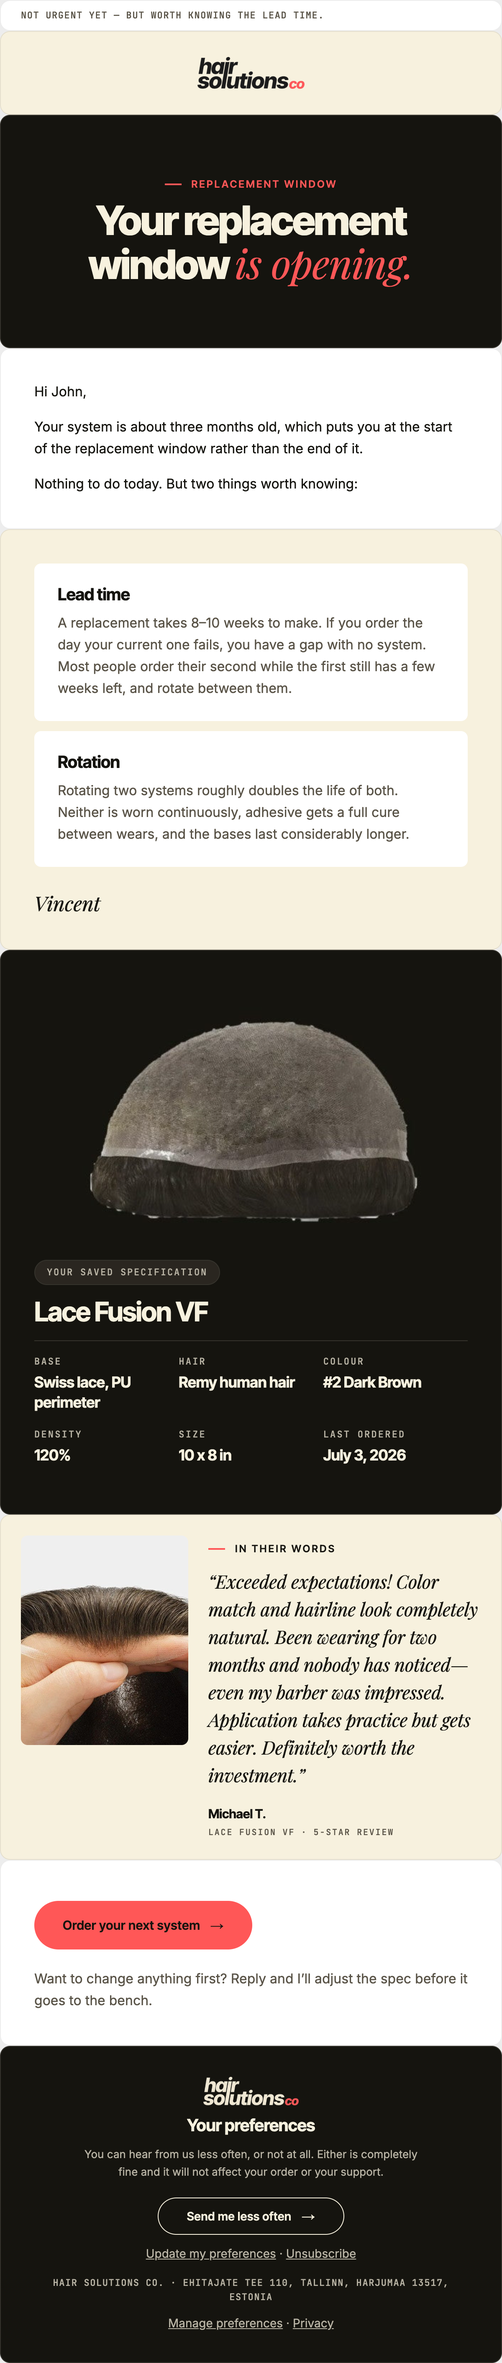
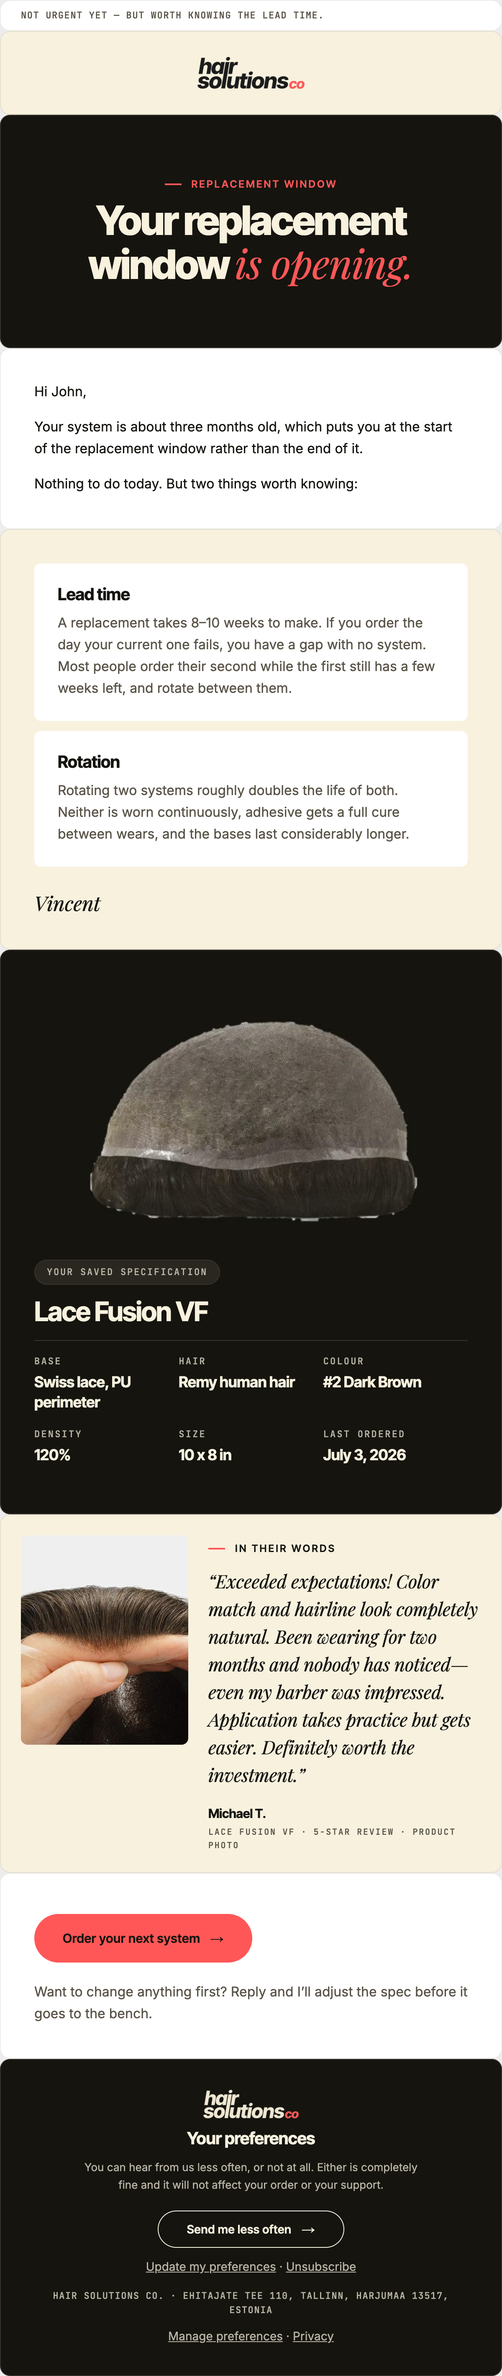
Add WB-1 (checking in); label review photos as product photos

diff --git a/templates/emails/wb-1-checking-in/template.html b/templates/emails/wb-1-checking-in/template.html
@@ -1,0 +1,83 @@
+<!DOCTYPE html>
+<html lang="en" xmlns="http://www.w3.org/1999/xhtml" xmlns:v="urn:schemas-microsoft-com:vml" xmlns:o="urn:schemas-microsoft-com:office:office">
+<head>
+<meta charset="utf-8">
+<meta name="viewport" content="width=device-width,initial-scale=1">
+<meta http-equiv="X-UA-Compatible" content="IE=edge">
+<meta name="x-apple-disable-message-reformatting">
+<meta name="color-scheme" content="light">
+<meta name="supported-color-schemes" content="light">
+<title>Checking in — Vincent here</title>
+<!--[if mso]><noscript><xml><o:OfficeDocumentSettings><o:PixelsPerInch>96</o:PixelsPerInch></o:OfficeDocumentSettings></xml></noscript><![endif]-->
+<link href="https://fonts.googleapis.com/css2?family=Inter:wght@400;600;700&amp;family=Inter+Tight:wght@600;700;800&amp;family=JetBrains+Mono:wght@500;700&amp;family=Playfair+Display:ital,wght@1,400;1,500&amp;display=swap" rel="stylesheet">
+<style>
+  body { margin:0 !important; padding:0 !important; background-color:transparent; -webkit-text-size-adjust:100%; -ms-text-size-adjust:100%; }
+  table, td { mso-table-lspace:0pt; mso-table-rspace:0pt; }
+  img { -ms-interpolation-mode:bicubic; }
+  a { text-decoration-skip-ink:auto; }
+  .unsub a { color:#b8b3a4 !important; text-decoration:underline !important; }
+  @media only screen and (max-width:480px) {
+    .shell { width:100% !important; }
+    .pad { padding:32px 22px !important; }
+    .pad-sm { padding-left:16px !important; padding-right:16px !important; }
+    .hero-h { font-size:36px !important; line-height:37px !important; letter-spacing:-1.2px !important; }
+    .btn { width:100% !important; } .btn a { display:block !important; text-align:center !important; }
+    .stack { display:block !important; width:100% !important; padding:0 !important; }
+    .stack-gap { padding-top:20px !important; }
+    .fluid { width:100% !important; height:auto !important; }
+    .pad-copy { padding:0 4px !important; }
+  }
+</style>
+</head>
+<body style="margin:0;padding:0;background-color:transparent;">
+<!--[if mso]><table role="presentation" width="600" align="center" cellpadding="0" cellspacing="0" border="0"><tr><td><![endif]-->
+<table role="presentation" width="100%" cellpadding="0" cellspacing="0" border="0" style="background-color:transparent;"><tr><td align="center" style="padding:0;">
+<table role="presentation" class="shell" width="100%" cellpadding="0" cellspacing="0" border="0" style="width:100%;max-width:600px;">
+<tr><td style="padding:0;">
+<table role="presentation" width="100%" cellpadding="0" cellspacing="0" border="0" style="border-collapse:separate;background-color:#ffffff;border:1px solid #ececec;border-radius:12px;">
+<tr><td class="pad-sm" style="padding:9px 24px;"><table role="presentation" width="100%" cellpadding="0" cellspacing="0" border="0"><tr><td style="font-family:'JetBrains Mono','Courier New',monospace;font-size:11px;line-height:17px;letter-spacing:0.8px;text-transform:uppercase;color:#5a5448;vertical-align:middle;">No offer attached. Just wondering how you got on.</td></tr></table></td></tr>
+</table>
+</td></tr>
+</table>
+</td></tr></table>
+<table role="presentation" width="100%" cellpadding="0" cellspacing="0" border="0" style="background-color:transparent;"><tr><td align="center" style="padding:0;">
+<table role="presentation" class="shell" width="100%" cellpadding="0" cellspacing="0" border="0" style="width:100%;max-width:600px;">
+<tr><td style="padding:0;">
+<table role="presentation" width="100%" cellpadding="0" cellspacing="0" border="0" style="border-collapse:separate;background-color:#f7f1de;border:1px solid #e5dfcd;border-radius:12px;">
+<tr><td class="pad" style="padding:30px 40px;"><img src="https://cdn.shopify.com/s/files/1/0276/9115/5508/files/hsc-email-logo-ink.png" width="128" height="38" alt="Hair Solutions Co." style="display:block;margin:0 auto;border:0;width:128px;height:38px;"></td></tr>
+</table>
+</td></tr>
+</table>
+</td></tr></table>
+<table role="presentation" width="100%" cellpadding="0" cellspacing="0" border="0" style="background-color:transparent;"><tr><td align="center" style="padding:0;">
+<table role="presentation" class="shell" width="100%" cellpadding="0" cellspacing="0" border="0" style="width:100%;max-width:600px;">
+<tr><td style="padding:0;">
+<table role="presentation" width="100%" cellpadding="0" cellspacing="0" border="0" style="border-collapse:separate;background-color:#f7f1de;border:1px solid #e5dfcd;border-radius:12px;">
+<tr><td class="pad" style="padding:48px 40px 44px 40px;">{%- assign last_s = customer.last_order.created_at | date: "%s" | plus: 0 -%}{%- assign now_s = "now" | date: "%s" | plus: 0 -%}{%- assign months_since = now_s | minus: last_s | divided_by: 2592000 -%}<p style="margin:0 0 20px 0;font-family:'Inter Tight',Arial,Helvetica,sans-serif;font-size:20px;line-height:28px;font-weight:700;letter-spacing:-0.3px;color:#15140f;text-align:left;">Hi {{ customer.first_name | default: "there" }},</p><p style="margin:0 0 20px 0;font-family:'Inter',Arial,Helvetica,sans-serif;font-size:17px;line-height:28px;font-weight:400;color:#5a5448;text-align:left;">It&rsquo;s been a while &mdash; your last order with us was {{ months_since }} months ago.</p><p style="margin:0 0 20px 0;font-family:'Inter',Arial,Helvetica,sans-serif;font-size:17px;line-height:28px;font-weight:400;color:#5a5448;text-align:left;">No pitch in this email. I&rsquo;m just curious how you got on.</p><p style="margin:0 0 20px 0;font-family:'Inter',Arial,Helvetica,sans-serif;font-size:17px;line-height:28px;font-weight:400;color:#5a5448;text-align:left;">If you&rsquo;re still wearing a system and it&rsquo;s working, that&rsquo;s good to hear and you can ignore this.</p><p style="margin:0 0 20px 0;font-family:'Inter',Arial,Helvetica,sans-serif;font-size:17px;line-height:28px;font-weight:400;color:#5a5448;text-align:left;">If you stopped, I&rsquo;d honestly like to know why. Was it the maintenance? The cost? Did the fit never come right? Did you go a different route entirely?</p><p style="margin:0 0 28px 0;font-family:'Inter',Arial,Helvetica,sans-serif;font-size:17px;line-height:28px;font-weight:400;color:#5a5448;text-align:left;">I read every reply, and the answers change what we make. The most useful feedback I&rsquo;ve had all year came from people who stopped buying.</p><p style="margin:0 0 4px 0;font-family:'Playfair Display',Georgia,'Times New Roman',serif;font-size:24px;line-height:30px;font-weight:400;color:#15140f;text-align:left;font-style:italic;">Vincent</p><p style="margin:0 0 0px 0;font-family:'JetBrains Mono','Courier New',monospace;font-size:11px;line-height:17px;font-weight:500;letter-spacing:1px;text-transform:uppercase;color:#5a5448;text-align:left;">Founder, Hair Solutions Co.</p></td></tr>
+</table>
+</td></tr>
+</table>
+</td></tr></table>
+<table role="presentation" width="100%" cellpadding="0" cellspacing="0" border="0" style="background-color:transparent;"><tr><td align="center" style="padding:0;">
+<table role="presentation" class="shell" width="100%" cellpadding="0" cellspacing="0" border="0" style="width:100%;max-width:600px;">
+<tr><td style="padding:0;">
+<table role="presentation" width="100%" cellpadding="0" cellspacing="0" border="0" style="border-collapse:separate;background-color:#15140f;border:1px solid #35332c;border-radius:12px;">
+<tr><td class="pad-sm" style="padding:36px 24px 36px 24px;"><img src="https://cdn.shopify.com/s/files/1/0276/9115/5508/files/hsc-email-logo-bone.png" width="114" height="34" alt="Hair Solutions Co." style="display:block;margin:0 auto 10px auto;border:0;width:114px;height:34px;">
+<p style="margin:0 0 10px 0;font-family:'Inter Tight',Arial,Helvetica,sans-serif;font-size:20px;line-height:28px;font-weight:700;color:#f7f1de;text-align:center;letter-spacing:-0.3px;">Your preferences</p>
+<p class="pad-copy" style="margin:0 0 20px 0;font-family:'Inter',Arial,Helvetica,sans-serif;font-size:13px;line-height:21px;font-weight:400;color:#b8b3a4;text-align:center;padding:0 70px;">You can hear from us less often, or not at all. Either is completely fine and it will not affect your order or your support.</p>
+<table role="presentation" align="center" class="btn" cellpadding="0" cellspacing="0" border="0" style="border-collapse:separate;margin:0 auto;">
+<tr><td style="border-radius:999px;background-color:#15140f;">
+<a href="https://hairsolutions.co/pages/edit-notifications" target="_blank" style="display:inline-block;border:1px solid #f7f1de;padding:0 34px;line-height:42px;font-family:'Inter Tight',Arial,Helvetica,sans-serif;font-size:14px;font-weight:600;letter-spacing:0.3px;color:#f7f1de;text-decoration:none;border-radius:999px;white-space:nowrap;">Send me less often<span style="padding-left:12px;font-family:'Inter',Arial,Helvetica,sans-serif;font-size:16px;">&rarr;</span></a>
+</td></tr></table>
+<p style="margin:0 0 16px 0;font-family:'Inter',Arial,Helvetica,sans-serif;font-size:14px;line-height:21px;font-weight:400;color:#b8b3a4;text-align:center;padding-top:12px;"><a href="https://hairsolutions.co/pages/edit-notifications" target="_blank" style="color:#b8b3a4;text-decoration:underline;">Update my preferences</a> &middot; <span class="unsub">{{ unsubscribe_link }}</span></p>
+<p style="margin:0 0 12px 0;font-family:'JetBrains Mono','Courier New',monospace;font-size:11px;line-height:17px;font-weight:500;letter-spacing:0.8px;text-transform:uppercase;color:#b8b3a4;text-align:center;padding:0 24px;">Hair Solutions Co. &middot; Ehitajate tee 110, Tallinn, Harjumaa 13517, Estonia</p>
+<p style="margin:0 0 0px 0;font-family:'Inter',Arial,Helvetica,sans-serif;font-size:14px;line-height:21px;font-weight:400;color:#b8b3a4;text-align:center;"><a href="https://hairsolutions.co/pages/edit-notifications" target="_blank" style="color:#b8b3a4;text-decoration:underline;">Manage preferences</a> &middot; <a href="https://hairsolutions.co/policies/privacy-policy" target="_blank" style="color:#b8b3a4;text-decoration:underline;">Privacy</a></p></td></tr>
+</table>
+</td></tr>
+</table>
+</td></tr></table>
+<!--[if mso]></td></tr></table><![endif]-->
+{{ open_tracking_block }}
+
+</body>
+</html>

diff --git a/templates/emails/nl-01-no-best-base/template.html b/templates/emails/nl-01-no-best-base/template.html
@@ -122,7 +122,7 @@
 <tr><td class="pad" style="padding:24px;"><table role="presentation" width="100%" cellpadding="0" cellspacing="0" border="0"><tr><td class="stack" width="200" valign="top" style="width:200px;vertical-align:top;"><img src="https://cdn.shopify.com/s/files/1/0276/9115/5508/files/hsc-email-review-micro-skin-md-hairline.jpg" width="200" height="250" alt="Close-up of the Micro Skin MD hairline" style="display:block;width:200px;height:250px;border:0;border-radius:8px;"></td><td class="stack stack-gap" valign="top" style="padding-left:24px;vertical-align:top;padding-top:8px;"><table role="presentation" cellpadding="0" cellspacing="0" border="0" style="margin:0 0 14px 0;">
 <tr><td width="20" style="width:20px;vertical-align:middle;"><div style="height:2px;line-height:2px;font-size:0;background-color:#ff5757;">&nbsp;</div></td>
 <td style="padding-left:12px;font-family:'Inter Tight',Arial,Helvetica,sans-serif;font-size:12px;line-height:16px;font-weight:600;letter-spacing:2px;text-transform:uppercase;color:#15140f;white-space:nowrap;">In their words</td></tr>
-</table><p style="margin:0 0 20px 0;font-family:'Playfair Display',Georgia,'Times New Roman',serif;font-size:22px;line-height:33px;font-weight:400;color:#15140f;text-align:left;font-style:italic;letter-spacing:-0.2px;">&ldquo;Perfect for sensitive skin&mdash;no irritation or discomfort even with all-day wear. Thin skin base feels breathable and lightweight. Hair density looks natural for my age (52) and gets regular compliments. Just stay on top of maintenance with cleaning and reapplication every 3-4 weeks.&rdquo;</p><p style="margin:0 0 4px 0;font-family:'Inter Tight',Arial,Helvetica,sans-serif;font-size:15px;line-height:20px;font-weight:700;color:#15140f;text-align:left;letter-spacing:-0.2px;">Thomas L.</p><p style="margin:0 0 0px 0;font-family:'JetBrains Mono','Courier New',monospace;font-size:10px;line-height:16px;font-weight:500;letter-spacing:1.4px;text-transform:uppercase;color:#5a5448;text-align:left;">Micro Skin MD &middot; 5-star review</p></td></tr></table></td></tr>
+</table><p style="margin:0 0 20px 0;font-family:'Playfair Display',Georgia,'Times New Roman',serif;font-size:22px;line-height:33px;font-weight:400;color:#15140f;text-align:left;font-style:italic;letter-spacing:-0.2px;">&ldquo;Perfect for sensitive skin&mdash;no irritation or discomfort even with all-day wear. Thin skin base feels breathable and lightweight. Hair density looks natural for my age (52) and gets regular compliments. Just stay on top of maintenance with cleaning and reapplication every 3-4 weeks.&rdquo;</p><p style="margin:0 0 4px 0;font-family:'Inter Tight',Arial,Helvetica,sans-serif;font-size:15px;line-height:20px;font-weight:700;color:#15140f;text-align:left;letter-spacing:-0.2px;">Thomas L.</p><p style="margin:0 0 0px 0;font-family:'JetBrains Mono','Courier New',monospace;font-size:10px;line-height:16px;font-weight:500;letter-spacing:1.4px;text-transform:uppercase;color:#5a5448;text-align:left;">Micro Skin MD &middot; 5-star review &middot; Product photo</p></td></tr></table></td></tr>
 </table>
 </td></tr>
 </table>

diff --git a/templates/email-blocks/nl-1-testimonial/section.html b/templates/email-blocks/nl-1-testimonial/section.html
@@ -5,7 +5,7 @@
 <tr><td class="pad" style="padding:24px;"><table role="presentation" width="100%" cellpadding="0" cellspacing="0" border="0"><tr><td class="stack" width="200" valign="top" style="width:200px;vertical-align:top;"><img src="https://cdn.shopify.com/s/files/1/0276/9115/5508/files/hsc-email-review-micro-skin-md-hairline.jpg" width="200" height="250" alt="Close-up of the Micro Skin MD hairline" style="display:block;width:200px;height:250px;border:0;border-radius:8px;"></td><td class="stack stack-gap" valign="top" style="padding-left:24px;vertical-align:top;padding-top:8px;"><table role="presentation" cellpadding="0" cellspacing="0" border="0" style="margin:0 0 14px 0;">
 <tr><td width="20" style="width:20px;vertical-align:middle;"><div style="height:2px;line-height:2px;font-size:0;background-color:#ff5757;">&nbsp;</div></td>
 <td style="padding-left:12px;font-family:'Inter Tight',Arial,Helvetica,sans-serif;font-size:12px;line-height:16px;font-weight:600;letter-spacing:2px;text-transform:uppercase;color:#15140f;white-space:nowrap;">In their words</td></tr>
-</table><p style="margin:0 0 20px 0;font-family:'Playfair Display',Georgia,'Times New Roman',serif;font-size:22px;line-height:33px;font-weight:400;color:#15140f;text-align:left;font-style:italic;letter-spacing:-0.2px;">&ldquo;Perfect for sensitive skin&mdash;no irritation or discomfort even with all-day wear. Thin skin base feels breathable and lightweight. Hair density looks natural for my age (52) and gets regular compliments. Just stay on top of maintenance with cleaning and reapplication every 3-4 weeks.&rdquo;</p><p style="margin:0 0 4px 0;font-family:'Inter Tight',Arial,Helvetica,sans-serif;font-size:15px;line-height:20px;font-weight:700;color:#15140f;text-align:left;letter-spacing:-0.2px;">Thomas L.</p><p style="margin:0 0 0px 0;font-family:'JetBrains Mono','Courier New',monospace;font-size:10px;line-height:16px;font-weight:500;letter-spacing:1.4px;text-transform:uppercase;color:#5a5448;text-align:left;">Micro Skin MD &middot; 5-star review</p></td></tr></table></td></tr>
+</table><p style="margin:0 0 20px 0;font-family:'Playfair Display',Georgia,'Times New Roman',serif;font-size:22px;line-height:33px;font-weight:400;color:#15140f;text-align:left;font-style:italic;letter-spacing:-0.2px;">&ldquo;Perfect for sensitive skin&mdash;no irritation or discomfort even with all-day wear. Thin skin base feels breathable and lightweight. Hair density looks natural for my age (52) and gets regular compliments. Just stay on top of maintenance with cleaning and reapplication every 3-4 weeks.&rdquo;</p><p style="margin:0 0 4px 0;font-family:'Inter Tight',Arial,Helvetica,sans-serif;font-size:15px;line-height:20px;font-weight:700;color:#15140f;text-align:left;letter-spacing:-0.2px;">Thomas L.</p><p style="margin:0 0 0px 0;font-family:'JetBrains Mono','Courier New',monospace;font-size:10px;line-height:16px;font-weight:500;letter-spacing:1.4px;text-transform:uppercase;color:#5a5448;text-align:left;">Micro Skin MD &middot; 5-star review &middot; Product photo</p></td></tr></table></td></tr>
 </table>
 </td></tr>
 </table>

diff --git a/templates/emails/wb-2-whats-changed/template.html b/templates/emails/wb-2-whats-changed/template.html
@@ -110,7 +110,7 @@
 <tr><td class="pad" style="padding:24px;"><table role="presentation" width="100%" cellpadding="0" cellspacing="0" border="0"><tr><td class="stack" width="200" valign="top" style="width:200px;vertical-align:top;"><img src="https://cdn.shopify.com/s/files/1/0276/9115/5508/files/hsc-email-review-mono-fusion-lf-hairline.jpg" width="200" height="250" alt="Close-up of the Mono Fusion LF hairline" style="display:block;width:200px;height:250px;border:0;border-radius:8px;"></td><td class="stack stack-gap" valign="top" style="padding-left:24px;vertical-align:top;padding-top:8px;"><table role="presentation" cellpadding="0" cellspacing="0" border="0" style="margin:0 0 14px 0;">
 <tr><td width="20" style="width:20px;vertical-align:middle;"><div style="height:2px;line-height:2px;font-size:0;background-color:#ff5757;">&nbsp;</div></td>
 <td style="padding-left:12px;font-family:'Inter Tight',Arial,Helvetica,sans-serif;font-size:12px;line-height:16px;font-weight:600;letter-spacing:2px;text-transform:uppercase;color:#15140f;white-space:nowrap;">In their words</td></tr>
-</table><p style="margin:0 0 20px 0;font-family:'Playfair Display',Georgia,'Times New Roman',serif;font-size:22px;line-height:33px;font-weight:400;color:#15140f;text-align:left;font-style:italic;letter-spacing:-0.2px;">&ldquo;Best hair system I've tried. Hair movement and texture feel completely natural&mdash;can run fingers through it without worry and styles like real hair. Confidence fully restored. Installation took 45 minutes first time, now 20. Lace base blends perfectly. Couldn't be happier.&rdquo;</p><p style="margin:0 0 4px 0;font-family:'Inter Tight',Arial,Helvetica,sans-serif;font-size:15px;line-height:20px;font-weight:700;color:#15140f;text-align:left;letter-spacing:-0.2px;">Robert M.</p><p style="margin:0 0 0px 0;font-family:'JetBrains Mono','Courier New',monospace;font-size:10px;line-height:16px;font-weight:500;letter-spacing:1.4px;text-transform:uppercase;color:#5a5448;text-align:left;">Mono Fusion LF &middot; 5-star review</p></td></tr></table></td></tr>
+</table><p style="margin:0 0 20px 0;font-family:'Playfair Display',Georgia,'Times New Roman',serif;font-size:22px;line-height:33px;font-weight:400;color:#15140f;text-align:left;font-style:italic;letter-spacing:-0.2px;">&ldquo;Best hair system I've tried. Hair movement and texture feel completely natural&mdash;can run fingers through it without worry and styles like real hair. Confidence fully restored. Installation took 45 minutes first time, now 20. Lace base blends perfectly. Couldn't be happier.&rdquo;</p><p style="margin:0 0 4px 0;font-family:'Inter Tight',Arial,Helvetica,sans-serif;font-size:15px;line-height:20px;font-weight:700;color:#15140f;text-align:left;letter-spacing:-0.2px;">Robert M.</p><p style="margin:0 0 0px 0;font-family:'JetBrains Mono','Courier New',monospace;font-size:10px;line-height:16px;font-weight:500;letter-spacing:1.4px;text-transform:uppercase;color:#5a5448;text-align:left;">Mono Fusion LF &middot; 5-star review &middot; Product photo</p></td></tr></table></td></tr>
 </table>
 </td></tr>
 </table>

diff --git a/templates/email-blocks/wb-2-testimonial/section.html b/templates/email-blocks/wb-2-testimonial/section.html
@@ -5,7 +5,7 @@
 <tr><td class="pad" style="padding:24px;"><table role="presentation" width="100%" cellpadding="0" cellspacing="0" border="0"><tr><td class="stack" width="200" valign="top" style="width:200px;vertical-align:top;"><img src="https://cdn.shopify.com/s/files/1/0276/9115/5508/files/hsc-email-review-mono-fusion-lf-hairline.jpg" width="200" height="250" alt="Close-up of the Mono Fusion LF hairline" style="display:block;width:200px;height:250px;border:0;border-radius:8px;"></td><td class="stack stack-gap" valign="top" style="padding-left:24px;vertical-align:top;padding-top:8px;"><table role="presentation" cellpadding="0" cellspacing="0" border="0" style="margin:0 0 14px 0;">
 <tr><td width="20" style="width:20px;vertical-align:middle;"><div style="height:2px;line-height:2px;font-size:0;background-color:#ff5757;">&nbsp;</div></td>
 <td style="padding-left:12px;font-family:'Inter Tight',Arial,Helvetica,sans-serif;font-size:12px;line-height:16px;font-weight:600;letter-spacing:2px;text-transform:uppercase;color:#15140f;white-space:nowrap;">In their words</td></tr>
-</table><p style="margin:0 0 20px 0;font-family:'Playfair Display',Georgia,'Times New Roman',serif;font-size:22px;line-height:33px;font-weight:400;color:#15140f;text-align:left;font-style:italic;letter-spacing:-0.2px;">&ldquo;Best hair system I've tried. Hair movement and texture feel completely natural&mdash;can run fingers through it without worry and styles like real hair. Confidence fully restored. Installation took 45 minutes first time, now 20. Lace base blends perfectly. Couldn't be happier.&rdquo;</p><p style="margin:0 0 4px 0;font-family:'Inter Tight',Arial,Helvetica,sans-serif;font-size:15px;line-height:20px;font-weight:700;color:#15140f;text-align:left;letter-spacing:-0.2px;">Robert M.</p><p style="margin:0 0 0px 0;font-family:'JetBrains Mono','Courier New',monospace;font-size:10px;line-height:16px;font-weight:500;letter-spacing:1.4px;text-transform:uppercase;color:#5a5448;text-align:left;">Mono Fusion LF &middot; 5-star review</p></td></tr></table></td></tr>
+</table><p style="margin:0 0 20px 0;font-family:'Playfair Display',Georgia,'Times New Roman',serif;font-size:22px;line-height:33px;font-weight:400;color:#15140f;text-align:left;font-style:italic;letter-spacing:-0.2px;">&ldquo;Best hair system I've tried. Hair movement and texture feel completely natural&mdash;can run fingers through it without worry and styles like real hair. Confidence fully restored. Installation took 45 minutes first time, now 20. Lace base blends perfectly. Couldn't be happier.&rdquo;</p><p style="margin:0 0 4px 0;font-family:'Inter Tight',Arial,Helvetica,sans-serif;font-size:15px;line-height:20px;font-weight:700;color:#15140f;text-align:left;letter-spacing:-0.2px;">Robert M.</p><p style="margin:0 0 0px 0;font-family:'JetBrains Mono','Courier New',monospace;font-size:10px;line-height:16px;font-weight:500;letter-spacing:1.4px;text-transform:uppercase;color:#5a5448;text-align:left;">Mono Fusion LF &middot; 5-star review &middot; Product photo</p></td></tr></table></td></tr>
 </table>
 </td></tr>
 </table>

diff --git a/templates/emails/ro-3-replacement-window/template.html b/templates/emails/ro-3-replacement-window/template.html
@@ -97,7 +97,7 @@
 <tr><td class="pad" style="padding:24px;"><table role="presentation" width="100%" cellpadding="0" cellspacing="0" border="0"><tr><td class="stack" width="200" valign="top" style="width:200px;vertical-align:top;"><img src="https://cdn.shopify.com/s/files/1/0276/9115/5508/files/hsc-email-review-lace-fusion-vf-hairline.jpg" width="200" height="250" alt="Close-up of the Lace Fusion VF hairline" style="display:block;width:200px;height:250px;border:0;border-radius:8px;"></td><td class="stack stack-gap" valign="top" style="padding-left:24px;vertical-align:top;padding-top:8px;"><table role="presentation" cellpadding="0" cellspacing="0" border="0" style="margin:0 0 14px 0;">
 <tr><td width="20" style="width:20px;vertical-align:middle;"><div style="height:2px;line-height:2px;font-size:0;background-color:#ff5757;">&nbsp;</div></td>
 <td style="padding-left:12px;font-family:'Inter Tight',Arial,Helvetica,sans-serif;font-size:12px;line-height:16px;font-weight:600;letter-spacing:2px;text-transform:uppercase;color:#15140f;white-space:nowrap;">In their words</td></tr>
-</table><p style="margin:0 0 20px 0;font-family:'Playfair Display',Georgia,'Times New Roman',serif;font-size:22px;line-height:33px;font-weight:400;color:#15140f;text-align:left;font-style:italic;letter-spacing:-0.2px;">&ldquo;Exceeded expectations! Color match and hairline look completely natural. Been wearing for two months and nobody has noticed&mdash;even my barber was impressed. Application takes practice but gets easier. Definitely worth the investment.&rdquo;</p><p style="margin:0 0 4px 0;font-family:'Inter Tight',Arial,Helvetica,sans-serif;font-size:15px;line-height:20px;font-weight:700;color:#15140f;text-align:left;letter-spacing:-0.2px;">Michael T.</p><p style="margin:0 0 0px 0;font-family:'JetBrains Mono','Courier New',monospace;font-size:10px;line-height:16px;font-weight:500;letter-spacing:1.4px;text-transform:uppercase;color:#5a5448;text-align:left;">Lace Fusion VF &middot; 5-star review</p></td></tr></table></td></tr>
+</table><p style="margin:0 0 20px 0;font-family:'Playfair Display',Georgia,'Times New Roman',serif;font-size:22px;line-height:33px;font-weight:400;color:#15140f;text-align:left;font-style:italic;letter-spacing:-0.2px;">&ldquo;Exceeded expectations! Color match and hairline look completely natural. Been wearing for two months and nobody has noticed&mdash;even my barber was impressed. Application takes practice but gets easier. Definitely worth the investment.&rdquo;</p><p style="margin:0 0 4px 0;font-family:'Inter Tight',Arial,Helvetica,sans-serif;font-size:15px;line-height:20px;font-weight:700;color:#15140f;text-align:left;letter-spacing:-0.2px;">Michael T.</p><p style="margin:0 0 0px 0;font-family:'JetBrains Mono','Courier New',monospace;font-size:10px;line-height:16px;font-weight:500;letter-spacing:1.4px;text-transform:uppercase;color:#5a5448;text-align:left;">Lace Fusion VF &middot; 5-star review &middot; Product photo</p></td></tr></table></td></tr>
 </table>
 </td></tr>
 </table>

diff --git a/templates/email-blocks/ro-3-testimonial/section.html b/templates/email-blocks/ro-3-testimonial/section.html
@@ -5,7 +5,7 @@
 <tr><td class="pad" style="padding:24px;"><table role="presentation" width="100%" cellpadding="0" cellspacing="0" border="0"><tr><td class="stack" width="200" valign="top" style="width:200px;vertical-align:top;"><img src="https://cdn.shopify.com/s/files/1/0276/9115/5508/files/hsc-email-review-lace-fusion-vf-hairline.jpg" width="200" height="250" alt="Close-up of the Lace Fusion VF hairline" style="display:block;width:200px;height:250px;border:0;border-radius:8px;"></td><td class="stack stack-gap" valign="top" style="padding-left:24px;vertical-align:top;padding-top:8px;"><table role="presentation" cellpadding="0" cellspacing="0" border="0" style="margin:0 0 14px 0;">
 <tr><td width="20" style="width:20px;vertical-align:middle;"><div style="height:2px;line-height:2px;font-size:0;background-color:#ff5757;">&nbsp;</div></td>
 <td style="padding-left:12px;font-family:'Inter Tight',Arial,Helvetica,sans-serif;font-size:12px;line-height:16px;font-weight:600;letter-spacing:2px;text-transform:uppercase;color:#15140f;white-space:nowrap;">In their words</td></tr>
-</table><p style="margin:0 0 20px 0;font-family:'Playfair Display',Georgia,'Times New Roman',serif;font-size:22px;line-height:33px;font-weight:400;color:#15140f;text-align:left;font-style:italic;letter-spacing:-0.2px;">&ldquo;Exceeded expectations! Color match and hairline look completely natural. Been wearing for two months and nobody has noticed&mdash;even my barber was impressed. Application takes practice but gets easier. Definitely worth the investment.&rdquo;</p><p style="margin:0 0 4px 0;font-family:'Inter Tight',Arial,Helvetica,sans-serif;font-size:15px;line-height:20px;font-weight:700;color:#15140f;text-align:left;letter-spacing:-0.2px;">Michael T.</p><p style="margin:0 0 0px 0;font-family:'JetBrains Mono','Courier New',monospace;font-size:10px;line-height:16px;font-weight:500;letter-spacing:1.4px;text-transform:uppercase;color:#5a5448;text-align:left;">Lace Fusion VF &middot; 5-star review</p></td></tr></table></td></tr>
+</table><p style="margin:0 0 20px 0;font-family:'Playfair Display',Georgia,'Times New Roman',serif;font-size:22px;line-height:33px;font-weight:400;color:#15140f;text-align:left;font-style:italic;letter-spacing:-0.2px;">&ldquo;Exceeded expectations! Color match and hairline look completely natural. Been wearing for two months and nobody has noticed&mdash;even my barber was impressed. Application takes practice but gets easier. Definitely worth the investment.&rdquo;</p><p style="margin:0 0 4px 0;font-family:'Inter Tight',Arial,Helvetica,sans-serif;font-size:15px;line-height:20px;font-weight:700;color:#15140f;text-align:left;letter-spacing:-0.2px;">Michael T.</p><p style="margin:0 0 0px 0;font-family:'JetBrains Mono','Courier New',monospace;font-size:10px;line-height:16px;font-weight:500;letter-spacing:1.4px;text-transform:uppercase;color:#5a5448;text-align:left;">Lace Fusion VF &middot; 5-star review &middot; Product photo</p></td></tr></table></td></tr>
 </table>
 </td></tr>
 </table>

diff --git a/templates/email-blocks/wb-1-letter/section.html b/templates/email-blocks/wb-1-letter/section.html
@@ -1,0 +1,9 @@
+<table role="presentation" width="100%" cellpadding="0" cellspacing="0" border="0" style="background-color:transparent;"><tr><td align="center" style="padding:0;">
+<table role="presentation" class="shell" width="100%" cellpadding="0" cellspacing="0" border="0" style="width:100%;max-width:600px;">
+<tr><td style="padding:0;">
+<table role="presentation" width="100%" cellpadding="0" cellspacing="0" border="0" style="border-collapse:separate;background-color:#f7f1de;border:1px solid #e5dfcd;border-radius:12px;">
+<tr><td class="pad" style="padding:48px 40px 44px 40px;">{%- assign last_s = customer.last_order.created_at | date: "%s" | plus: 0 -%}{%- assign now_s = "now" | date: "%s" | plus: 0 -%}{%- assign months_since = now_s | minus: last_s | divided_by: 2592000 -%}<p style="margin:0 0 20px 0;font-family:'Inter Tight',Arial,Helvetica,sans-serif;font-size:20px;line-height:28px;font-weight:700;letter-spacing:-0.3px;color:#15140f;text-align:left;">Hi {{ customer.first_name | default: "there" }},</p><p style="margin:0 0 20px 0;font-family:'Inter',Arial,Helvetica,sans-serif;font-size:17px;line-height:28px;font-weight:400;color:#5a5448;text-align:left;">It&rsquo;s been a while &mdash; your last order with us was {{ months_since }} months ago.</p><p style="margin:0 0 20px 0;font-family:'Inter',Arial,Helvetica,sans-serif;font-size:17px;line-height:28px;font-weight:400;color:#5a5448;text-align:left;">No pitch in this email. I&rsquo;m just curious how you got on.</p><p style="margin:0 0 20px 0;font-family:'Inter',Arial,Helvetica,sans-serif;font-size:17px;line-height:28px;font-weight:400;color:#5a5448;text-align:left;">If you&rsquo;re still wearing a system and it&rsquo;s working, that&rsquo;s good to hear and you can ignore this.</p><p style="margin:0 0 20px 0;font-family:'Inter',Arial,Helvetica,sans-serif;font-size:17px;line-height:28px;font-weight:400;color:#5a5448;text-align:left;">If you stopped, I&rsquo;d honestly like to know why. Was it the maintenance? The cost? Did the fit never come right? Did you go a different route entirely?</p><p style="margin:0 0 28px 0;font-family:'Inter',Arial,Helvetica,sans-serif;font-size:17px;line-height:28px;font-weight:400;color:#5a5448;text-align:left;">I read every reply, and the answers change what we make. The most useful feedback I&rsquo;ve had all year came from people who stopped buying.</p><p style="margin:0 0 4px 0;font-family:'Playfair Display',Georgia,'Times New Roman',serif;font-size:24px;line-height:30px;font-weight:400;color:#15140f;text-align:left;font-style:italic;">Vincent</p><p style="margin:0 0 0px 0;font-family:'JetBrains Mono','Courier New',monospace;font-size:11px;line-height:17px;font-weight:500;letter-spacing:1px;text-transform:uppercase;color:#5a5448;text-align:left;">Founder, Hair Solutions Co.</p></td></tr>
+</table>
+</td></tr>
+</table>
+</td></tr></table>

diff --git a/templates/email-blocks/wb-1-preheader-bar/section.html b/templates/email-blocks/wb-1-preheader-bar/section.html
@@ -1,0 +1,9 @@
+<table role="presentation" width="100%" cellpadding="0" cellspacing="0" border="0" style="background-color:transparent;"><tr><td align="center" style="padding:0;">
+<table role="presentation" class="shell" width="100%" cellpadding="0" cellspacing="0" border="0" style="width:100%;max-width:600px;">
+<tr><td style="padding:0;">
+<table role="presentation" width="100%" cellpadding="0" cellspacing="0" border="0" style="border-collapse:separate;background-color:#ffffff;border:1px solid #ececec;border-radius:12px;">
+<tr><td class="pad-sm" style="padding:9px 24px;"><table role="presentation" width="100%" cellpadding="0" cellspacing="0" border="0"><tr><td style="font-family:'JetBrains Mono','Courier New',monospace;font-size:11px;line-height:17px;letter-spacing:0.8px;text-transform:uppercase;color:#5a5448;vertical-align:middle;">No offer attached. Just wondering how you got on.</td></tr></table></td></tr>
+</table>
+</td></tr>
+</table>
+</td></tr></table>

diff --git a/.claude/skills/shopify-email-html/scripts/mini_liquid.py b/.claude/skills/shopify-email-html/scripts/mini_liquid.py
@@ -173,6 +173,9 @@ def apply_filter(val, name, args):
         return num(val) + num(args[0])
     if name == "minus":
         return num(val) - num(args[0])
+    if name == "divided_by":
+        a, b = num(val), num(args[0])
+        return a // b if isinstance(a, int) and isinstance(b, int) else a / b
     if name == "times":
         return num(val) * num(args[0])
     if name == "append":

diff --git a/templates/email-blocks/README.md b/templates/email-blocks/README.md
@@ -13,7 +13,7 @@ All previews are 1200px wide (600px email at 2×). Every card stacks flush with 
 
 | Preview | Section | Context | Used by | Status |
 |---|---|---|---|---|
-| — (no visual output) | [Email head (fonts + styles)](00-email-head-fonts-styles/)<br>`00-email-head-fonts-styles` | any | [C-0](../emails/c-0-consultation-recap/), [CR-1](../emails/cr-1-your-carts-still-here/), [CR-2](../emails/cr-2-three-questions-answered/), [CR-3](../emails/cr-3-not-sure-you-picked-right/), [CR-4](../emails/cr-4-last-note-free-shipping/), [NL-01](../emails/nl-01-no-best-base/), [PP-1](../emails/pp-1-order-confirmation/), [RO-3](../emails/ro-3-replacement-window/), [W-1](../emails/w-1-welcome/), [WB-2](../emails/wb-2-whats-changed/) | live |
+| — (no visual output) | [Email head (fonts + styles)](00-email-head-fonts-styles/)<br>`00-email-head-fonts-styles` | any | [C-0](../emails/c-0-consultation-recap/), [CR-1](../emails/cr-1-your-carts-still-here/), [CR-2](../emails/cr-2-three-questions-answered/), [CR-3](../emails/cr-3-not-sure-you-picked-right/), [CR-4](../emails/cr-4-last-note-free-shipping/), [NL-01](../emails/nl-01-no-best-base/), [PP-1](../emails/pp-1-order-confirmation/), [RO-3](../emails/ro-3-replacement-window/), [W-1](../emails/w-1-welcome/), [WB-1](../emails/wb-1-checking-in/), [WB-2](../emails/wb-2-whats-changed/) | live |
 
 ## Preheader bar
 
@@ -28,13 +28,14 @@ All previews are 1200px wide (600px email at 2×). Every card stacks flush with 
 | — (no visual output) | [NL-01 · Preheader bar](nl-1-preheader-bar/)<br>`nl-1-preheader-bar` | any | [NL-01](../emails/nl-01-no-best-base/) | draft |
 | — (no visual output) | [RO-3 · Preheader bar](ro-3-preheader-bar/)<br>`ro-3-preheader-bar` | any | [RO-3](../emails/ro-3-replacement-window/) | draft |
 | — (no visual output) | [W-1 · Preheader bar](w-1-preheader-bar/)<br>`w-1-preheader-bar` | any | [W-1](../emails/w-1-welcome/) | draft |
+| <img src="wb-1-preheader-bar/preview.png" width="260" alt=""> | [WB-1 · Preheader bar](wb-1-preheader-bar/)<br>`wb-1-preheader-bar` | any | [WB-1](../emails/wb-1-checking-in/) | draft |
 | — (no visual output) | [WB-2 · Preheader bar](wb-2-preheader-bar/)<br>`wb-2-preheader-bar` | any | [WB-2](../emails/wb-2-whats-changed/) | draft |
 
 ## Logo header
 
 | Preview | Section | Context | Used by | Status |
 |---|---|---|---|---|
-| <img src="02-logo-header/preview.png" width="260" alt=""> | [Logo header](02-logo-header/)<br>`02-logo-header` | any | [C-0](../emails/c-0-consultation-recap/), [CR-1](../emails/cr-1-your-carts-still-here/), [CR-2](../emails/cr-2-three-questions-answered/), [CR-3](../emails/cr-3-not-sure-you-picked-right/), [CR-4](../emails/cr-4-last-note-free-shipping/), [PP-1](../emails/pp-1-order-confirmation/), [RO-3](../emails/ro-3-replacement-window/), [WB-2](../emails/wb-2-whats-changed/) | live |
+| <img src="02-logo-header/preview.png" width="260" alt=""> | [Logo header](02-logo-header/)<br>`02-logo-header` | any | [C-0](../emails/c-0-consultation-recap/), [CR-1](../emails/cr-1-your-carts-still-here/), [CR-2](../emails/cr-2-three-questions-answered/), [CR-3](../emails/cr-3-not-sure-you-picked-right/), [CR-4](../emails/cr-4-last-note-free-shipping/), [PP-1](../emails/pp-1-order-confirmation/), [RO-3](../emails/ro-3-replacement-window/), [WB-1](../emails/wb-1-checking-in/), [WB-2](../emails/wb-2-whats-changed/) | live |
 | — (no visual output) | [NL-01 · Masthead](nl-1-masthead/)<br>`nl-1-masthead` | any | [NL-01](../emails/nl-01-no-best-base/) | draft |
 | — (no visual output) | [W-1 · Masthead](w-1-masthead/)<br>`w-1-masthead` | any | [W-1](../emails/w-1-welcome/) | draft |
 
@@ -53,6 +54,7 @@ All previews are 1200px wide (600px email at 2×). Every card stacks flush with 
 | — (no visual output) | [RO-3 · Intro](ro-3-intro/)<br>`ro-3-intro` | any | [RO-3](../emails/ro-3-replacement-window/) | draft |
 | <img src="ro-3-lead-time-rotation/preview.png" width="260" alt=""> | [RO-3 · Lead time and rotation](ro-3-lead-time-rotation/)<br>`ro-3-lead-time-rotation` | any | [RO-3](../emails/ro-3-replacement-window/) | draft |
 | — (no visual output) | [W-1 · Intro](w-1-intro/)<br>`w-1-intro` | any | [W-1](../emails/w-1-welcome/) | draft |
+| <img src="wb-1-letter/preview.png" width="260" alt=""> | [WB-1 · Founder letter](wb-1-letter/)<br>`wb-1-letter` | customer | [WB-1](../emails/wb-1-checking-in/) | draft |
 | — (no visual output) | [WB-2 · Intro](wb-2-intro/)<br>`wb-2-intro` | any | [WB-2](../emails/wb-2-whats-changed/) | draft |
 | — (no visual output) | [WB-2 · Three changes](wb-2-three-changes/)<br>`wb-2-three-changes` | any | [WB-2](../emails/wb-2-whats-changed/) | draft |
 
@@ -75,7 +77,7 @@ All previews are 1200px wide (600px email at 2×). Every card stacks flush with 
 
 | Preview | Section | Context | Used by | Status |
 |---|---|---|---|---|
-| <img src="06-preferences-footer/preview.png" width="260" alt=""> | [Preferences footer](06-preferences-footer/)<br>`06-preferences-footer` | any | [CR-1](../emails/cr-1-your-carts-still-here/), [CR-2](../emails/cr-2-three-questions-answered/), [CR-3](../emails/cr-3-not-sure-you-picked-right/), [CR-4](../emails/cr-4-last-note-free-shipping/), [RO-3](../emails/ro-3-replacement-window/) | draft |
+| <img src="06-preferences-footer/preview.png" width="260" alt=""> | [Preferences footer](06-preferences-footer/)<br>`06-preferences-footer` | any | [CR-1](../emails/cr-1-your-carts-still-here/), [CR-2](../emails/cr-2-three-questions-answered/), [CR-3](../emails/cr-3-not-sure-you-picked-right/), [CR-4](../emails/cr-4-last-note-free-shipping/), [RO-3](../emails/ro-3-replacement-window/), [WB-1](../emails/wb-1-checking-in/) | draft |
 | <img src="33-pp-1-preferences-footer/preview.png" width="260" alt=""> | [PP-1 · Preferences footer](33-pp-1-preferences-footer/)<br>`33-pp-1-preferences-footer` | any | [PP-1](../emails/pp-1-order-confirmation/) | live |
 | — (no visual output) | [v6 · Footer (ink, social links)](v6-footer-ink-social/)<br>`v6-footer-ink-social` | any | [WB-2](../emails/wb-2-whats-changed/) | draft |
 | <img src="v6-footer-paper/preview.png" width="260" alt=""> | [v6 · Footer (paper, no social)](v6-footer-paper/)<br>`v6-footer-paper` | any | [C-0](../emails/c-0-consultation-recap/) | draft |
@@ -111,9 +113,9 @@ All previews are 1200px wide (600px email at 2×). Every card stacks flush with 
 |---|---|---|---|---|
 | <img src="12-cr-2-testimonial/preview.png" width="260" alt=""> | [CR-2 · Testimonial](12-cr-2-testimonial/)<br>`12-cr-2-testimonial` | any | [CR-2](../emails/cr-2-three-questions-answered/) | draft |
 | — (no visual output) | [C-0 · Testimonial (proof bank)](c-0-testimonial/)<br>`c-0-testimonial` ⚠ placeholder | any | [C-0](../emails/c-0-consultation-recap/) | draft |
-| — (no visual output) | [NL-01 · Testimonial (Thomas L.)](nl-1-testimonial/)<br>`nl-1-testimonial` | any | [NL-01](../emails/nl-01-no-best-base/) | draft |
-| — (no visual output) | [RO-3 · Testimonial (Michael T.)](ro-3-testimonial/)<br>`ro-3-testimonial` | any | [RO-3](../emails/ro-3-replacement-window/) | draft |
-| — (no visual output) | [WB-2 · Testimonial (Robert M.)](wb-2-testimonial/)<br>`wb-2-testimonial` | any | [WB-2](../emails/wb-2-whats-changed/) | draft |
+| <img src="nl-1-testimonial/preview.png" width="260" alt=""> | [NL-01 · Testimonial (Thomas L.)](nl-1-testimonial/)<br>`nl-1-testimonial` | any | [NL-01](../emails/nl-01-no-best-base/) | draft |
+| <img src="ro-3-testimonial/preview.png" width="260" alt=""> | [RO-3 · Testimonial (Michael T.)](ro-3-testimonial/)<br>`ro-3-testimonial` | any | [RO-3](../emails/ro-3-replacement-window/) | draft |
+| <img src="wb-2-testimonial/preview.png" width="260" alt=""> | [WB-2 · Testimonial (Robert M.)](wb-2-testimonial/)<br>`wb-2-testimonial` | any | [WB-2](../emails/wb-2-whats-changed/) | draft |
 
 ## Checklist
 

diff --git a/templates/email-blocks/wb-2-testimonial/README.md b/templates/email-blocks/wb-2-testimonial/README.md
@@ -10,10 +10,14 @@
 | Liquid variables | — |
 | Shopify status | draft |
 | Placeholders | no |
-| Characters | 2612 |
+| Characters | 2635 |
 | Used by | [WB-2](../../emails/wb-2-whats-changed/) |
 
-> REAL review (Notion Reviews database, created 2025-10-28 review date, Robert M., 5 stars, Mono Fusion LF), quoted word for word. Photo: product hairline shot (no customer photo exists). Angle mismatch: the design asks for 'a returning customer on the difference the new bases made'; this review is about the Mono Fusion LF hybrid but is not from a returning customer.
+> REAL review (Notion Reviews database, created 2025-10-28 review date, Robert M., 5 stars, Mono Fusion LF), quoted word for word. Photo: product hairline shot (no customer photo exists). Angle mismatch: the design asks for 'a returning customer on the difference the new bases made'; this review is about the Mono Fusion LF hybrid but is not from a returning customer. The photo is labelled 'Product photo' in the caption because it is the store's product shot, not the reviewer's.
+
+## Preview
+
+<img src="preview.png" width="600" alt="">
 
 ## HTML
 
@@ -27,7 +31,7 @@ Source: [`section.html`](section.html). Copy from here or from the raw file.
 <tr><td class="pad" style="padding:24px;"><table role="presentation" width="100%" cellpadding="0" cellspacing="0" border="0"><tr><td class="stack" width="200" valign="top" style="width:200px;vertical-align:top;"><img src="https://cdn.shopify.com/s/files/1/0276/9115/5508/files/hsc-email-review-mono-fusion-lf-hairline.jpg" width="200" height="250" alt="Close-up of the Mono Fusion LF hairline" style="display:block;width:200px;height:250px;border:0;border-radius:8px;"></td><td class="stack stack-gap" valign="top" style="padding-left:24px;vertical-align:top;padding-top:8px;"><table role="presentation" cellpadding="0" cellspacing="0" border="0" style="margin:0 0 14px 0;">
 <tr><td width="20" style="width:20px;vertical-align:middle;"><div style="height:2px;line-height:2px;font-size:0;background-color:#ff5757;">&nbsp;</div></td>
 <td style="padding-left:12px;font-family:'Inter Tight',Arial,Helvetica,sans-serif;font-size:12px;line-height:16px;font-weight:600;letter-spacing:2px;text-transform:uppercase;color:#15140f;white-space:nowrap;">In their words</td></tr>
-</table><p style="margin:0 0 20px 0;font-family:'Playfair Display',Georgia,'Times New Roman',serif;font-size:22px;line-height:33px;font-weight:400;color:#15140f;text-align:left;font-style:italic;letter-spacing:-0.2px;">&ldquo;Best hair system I've tried. Hair movement and texture feel completely natural&mdash;can run fingers through it without worry and styles like real hair. Confidence fully restored. Installation took 45 minutes first time, now 20. Lace base blends perfectly. Couldn't be happier.&rdquo;</p><p style="margin:0 0 4px 0;font-family:'Inter Tight',Arial,Helvetica,sans-serif;font-size:15px;line-height:20px;font-weight:700;color:#15140f;text-align:left;letter-spacing:-0.2px;">Robert M.</p><p style="margin:0 0 0px 0;font-family:'JetBrains Mono','Courier New',monospace;font-size:10px;line-height:16px;font-weight:500;letter-spacing:1.4px;text-transform:uppercase;color:#5a5448;text-align:left;">Mono Fusion LF &middot; 5-star review</p></td></tr></table></td></tr>
+</table><p style="margin:0 0 20px 0;font-family:'Playfair Display',Georgia,'Times New Roman',serif;font-size:22px;line-height:33px;font-weight:400;color:#15140f;text-align:left;font-style:italic;letter-spacing:-0.2px;">&ldquo;Best hair system I've tried. Hair movement and texture feel completely natural&mdash;can run fingers through it without worry and styles like real hair. Confidence fully restored. Installation took 45 minutes first time, now 20. Lace base blends perfectly. Couldn't be happier.&rdquo;</p><p style="margin:0 0 4px 0;font-family:'Inter Tight',Arial,Helvetica,sans-serif;font-size:15px;line-height:20px;font-weight:700;color:#15140f;text-align:left;letter-spacing:-0.2px;">Robert M.</p><p style="margin:0 0 0px 0;font-family:'JetBrains Mono','Courier New',monospace;font-size:10px;line-height:16px;font-weight:500;letter-spacing:1.4px;text-transform:uppercase;color:#5a5448;text-align:left;">Mono Fusion LF &middot; 5-star review &middot; Product photo</p></td></tr></table></td></tr>
 </table>
 </td></tr>
 </table>
